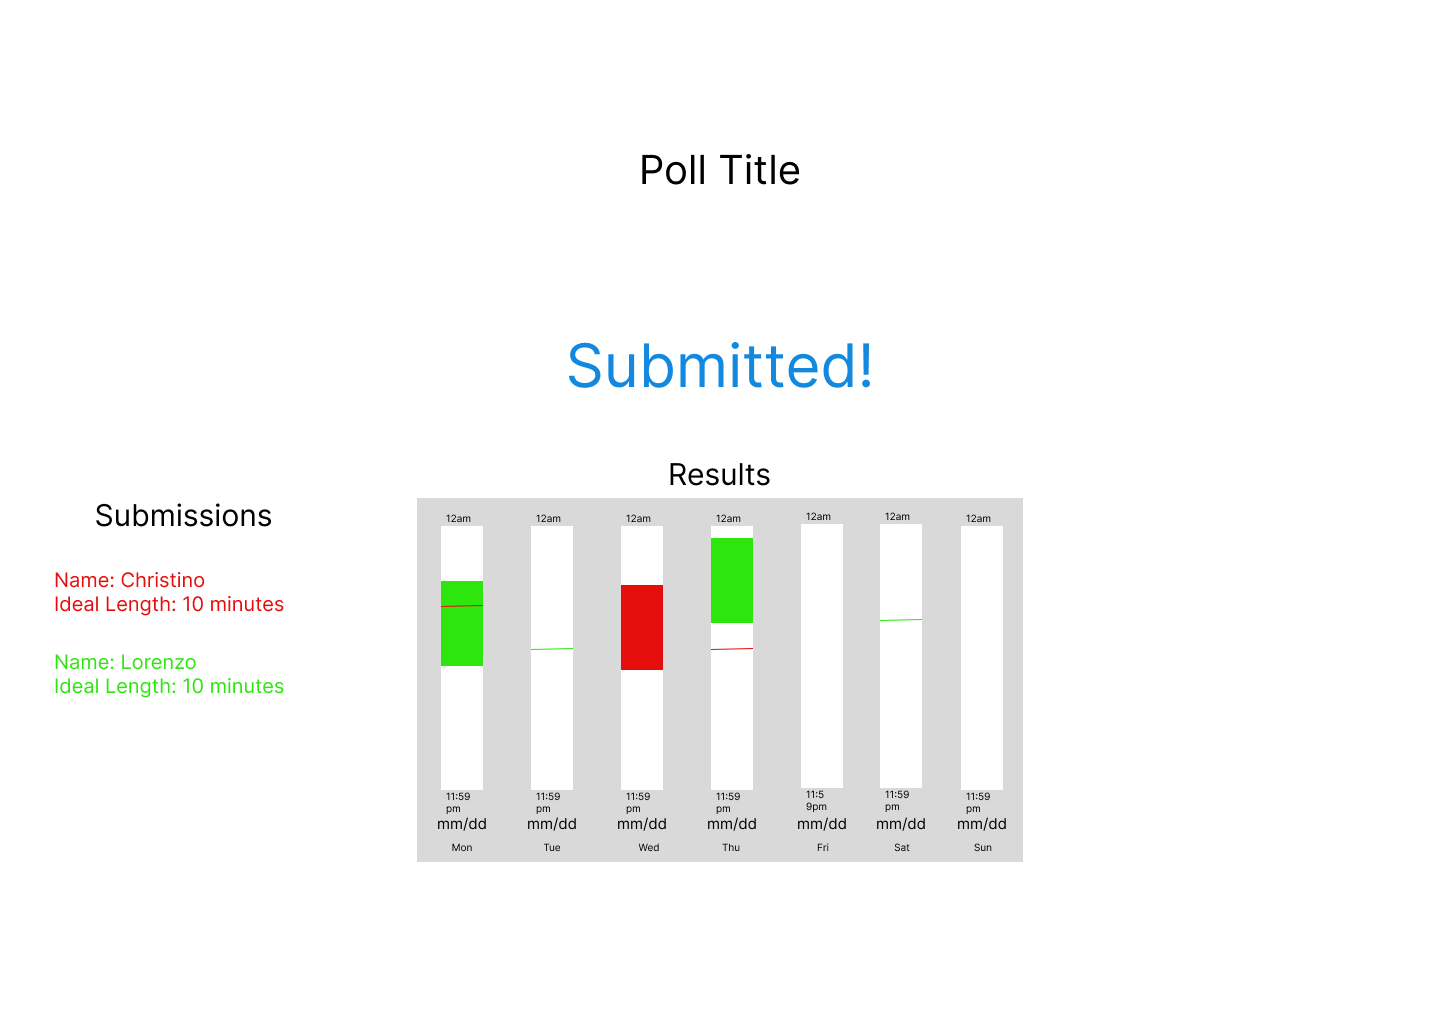
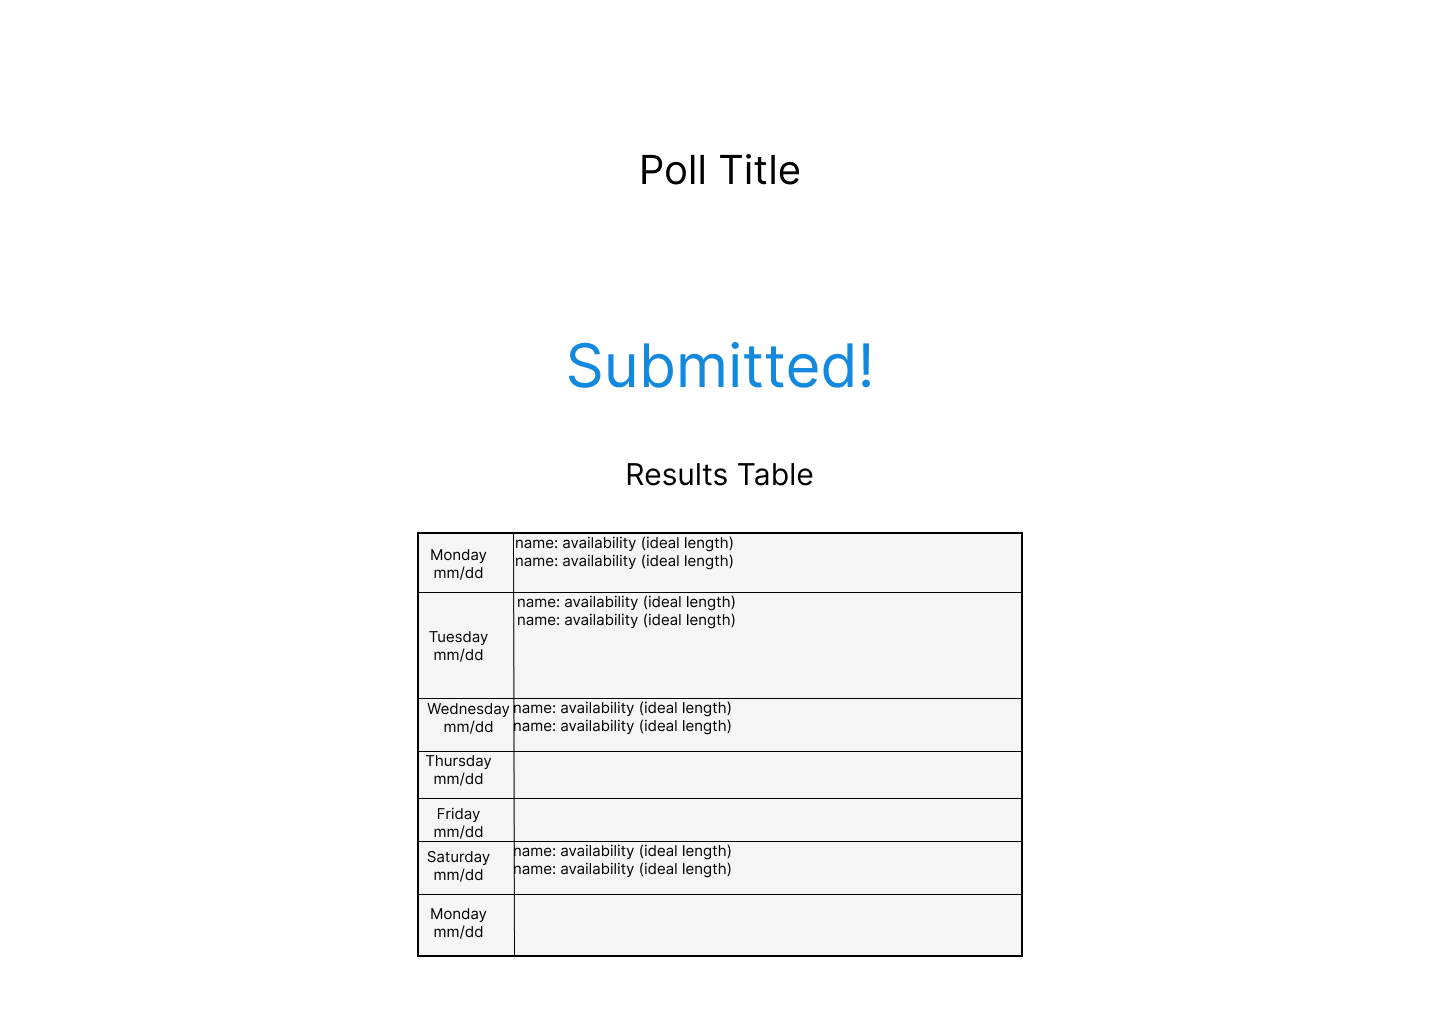
working on table, saving graph for future release

diff --git a/app/components/Submitted.js b/app/components/Submitted.js
@@ -1,5 +1,6 @@
 'use client'
 
+import Table from "./Table";
 import Title from "./Title";
 import { useState } from "react";
 
@@ -7,11 +8,15 @@ export default function Submitted() {
     const color = "text-sky-600"
     const [ submissions, setSubmissions ] = useState([{
                                                         Name: "Christino",
-                                                        IdealLength: 10
+                                                        start: "11am",
+                                                        end: "1:30pm",
+                                                        IdealLength: 10,
                                                       },
                                                       {
                                                         Name: "Lorenzo",
-                                                        IdealLength: 20
+                                                        start: "5pm",
+                                                        end: "6:30pm",
+                                                        IdealLength: 20,
                                                       }])
     return(
         <>
@@ -19,19 +24,20 @@ export default function Submitted() {
 
             <h1 className="text-[4.5rem] text-center text-sky-500 mt-[6rem]">Submitted!</h1>
 
-            <div className="grid grid-cols-5 gap-[1rem] border border-blue-500 mt-[5rem] ml-[4rem] mr-[33rem]">
-                <div className="grid col-span-2 border border-red-500 mr-[2rem] w-3/4">
-                    <h1 className="text-2xl">Submissions</h1>
-                    {
+            <div className="flex justify-center border border-blue-500 mt-[5rem] mx-[4rem] ">
+                
+                <div className="w-1/2  border border-orange-500">
+                    <h1 className="text-2xl">Results</h1>
+                    {/**{
                         submissions.map((e) => (
-                            <div className="p-2 m-2">
-                                <p>Name: {e.Name}</p>
-                                <p>Ideal Length: {e.IdealLength}</p>
+                            <div key={e} className="p-2 m-2">
+                                <p key={e.Name}>Name: {e.Name}</p>
+                                <p key={e.IdealLength}>Ideal Length: {e.IdealLength}</p>
                             </div>
                         ))
-                    }
+                    }*/}
+                    <Table/>
                 </div>
-                <div className="grid col-span-3 border border-orange-500">Results</div>
 
             </div>
         
